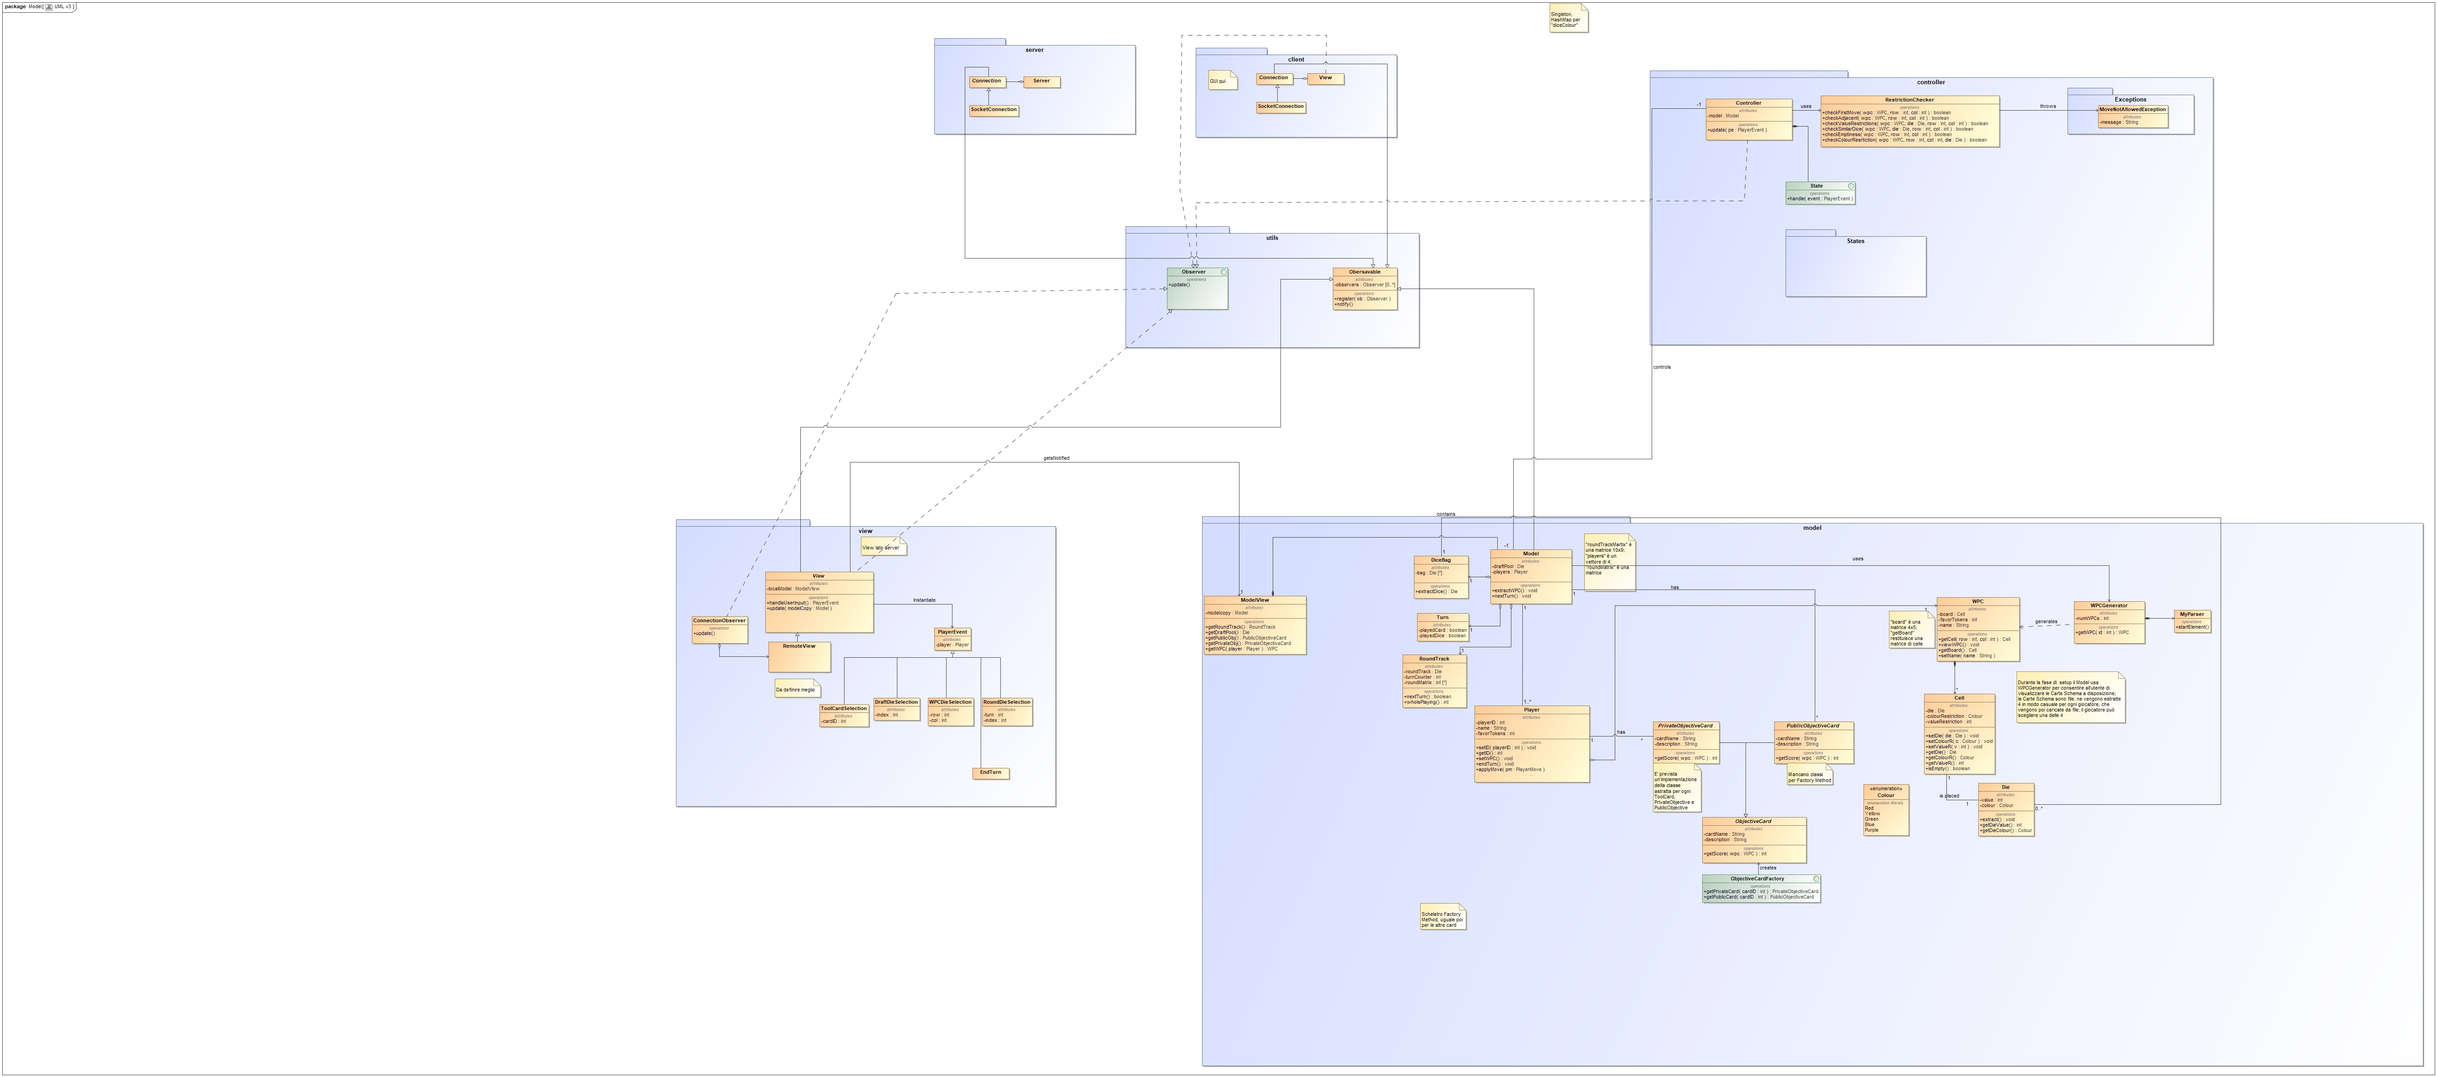
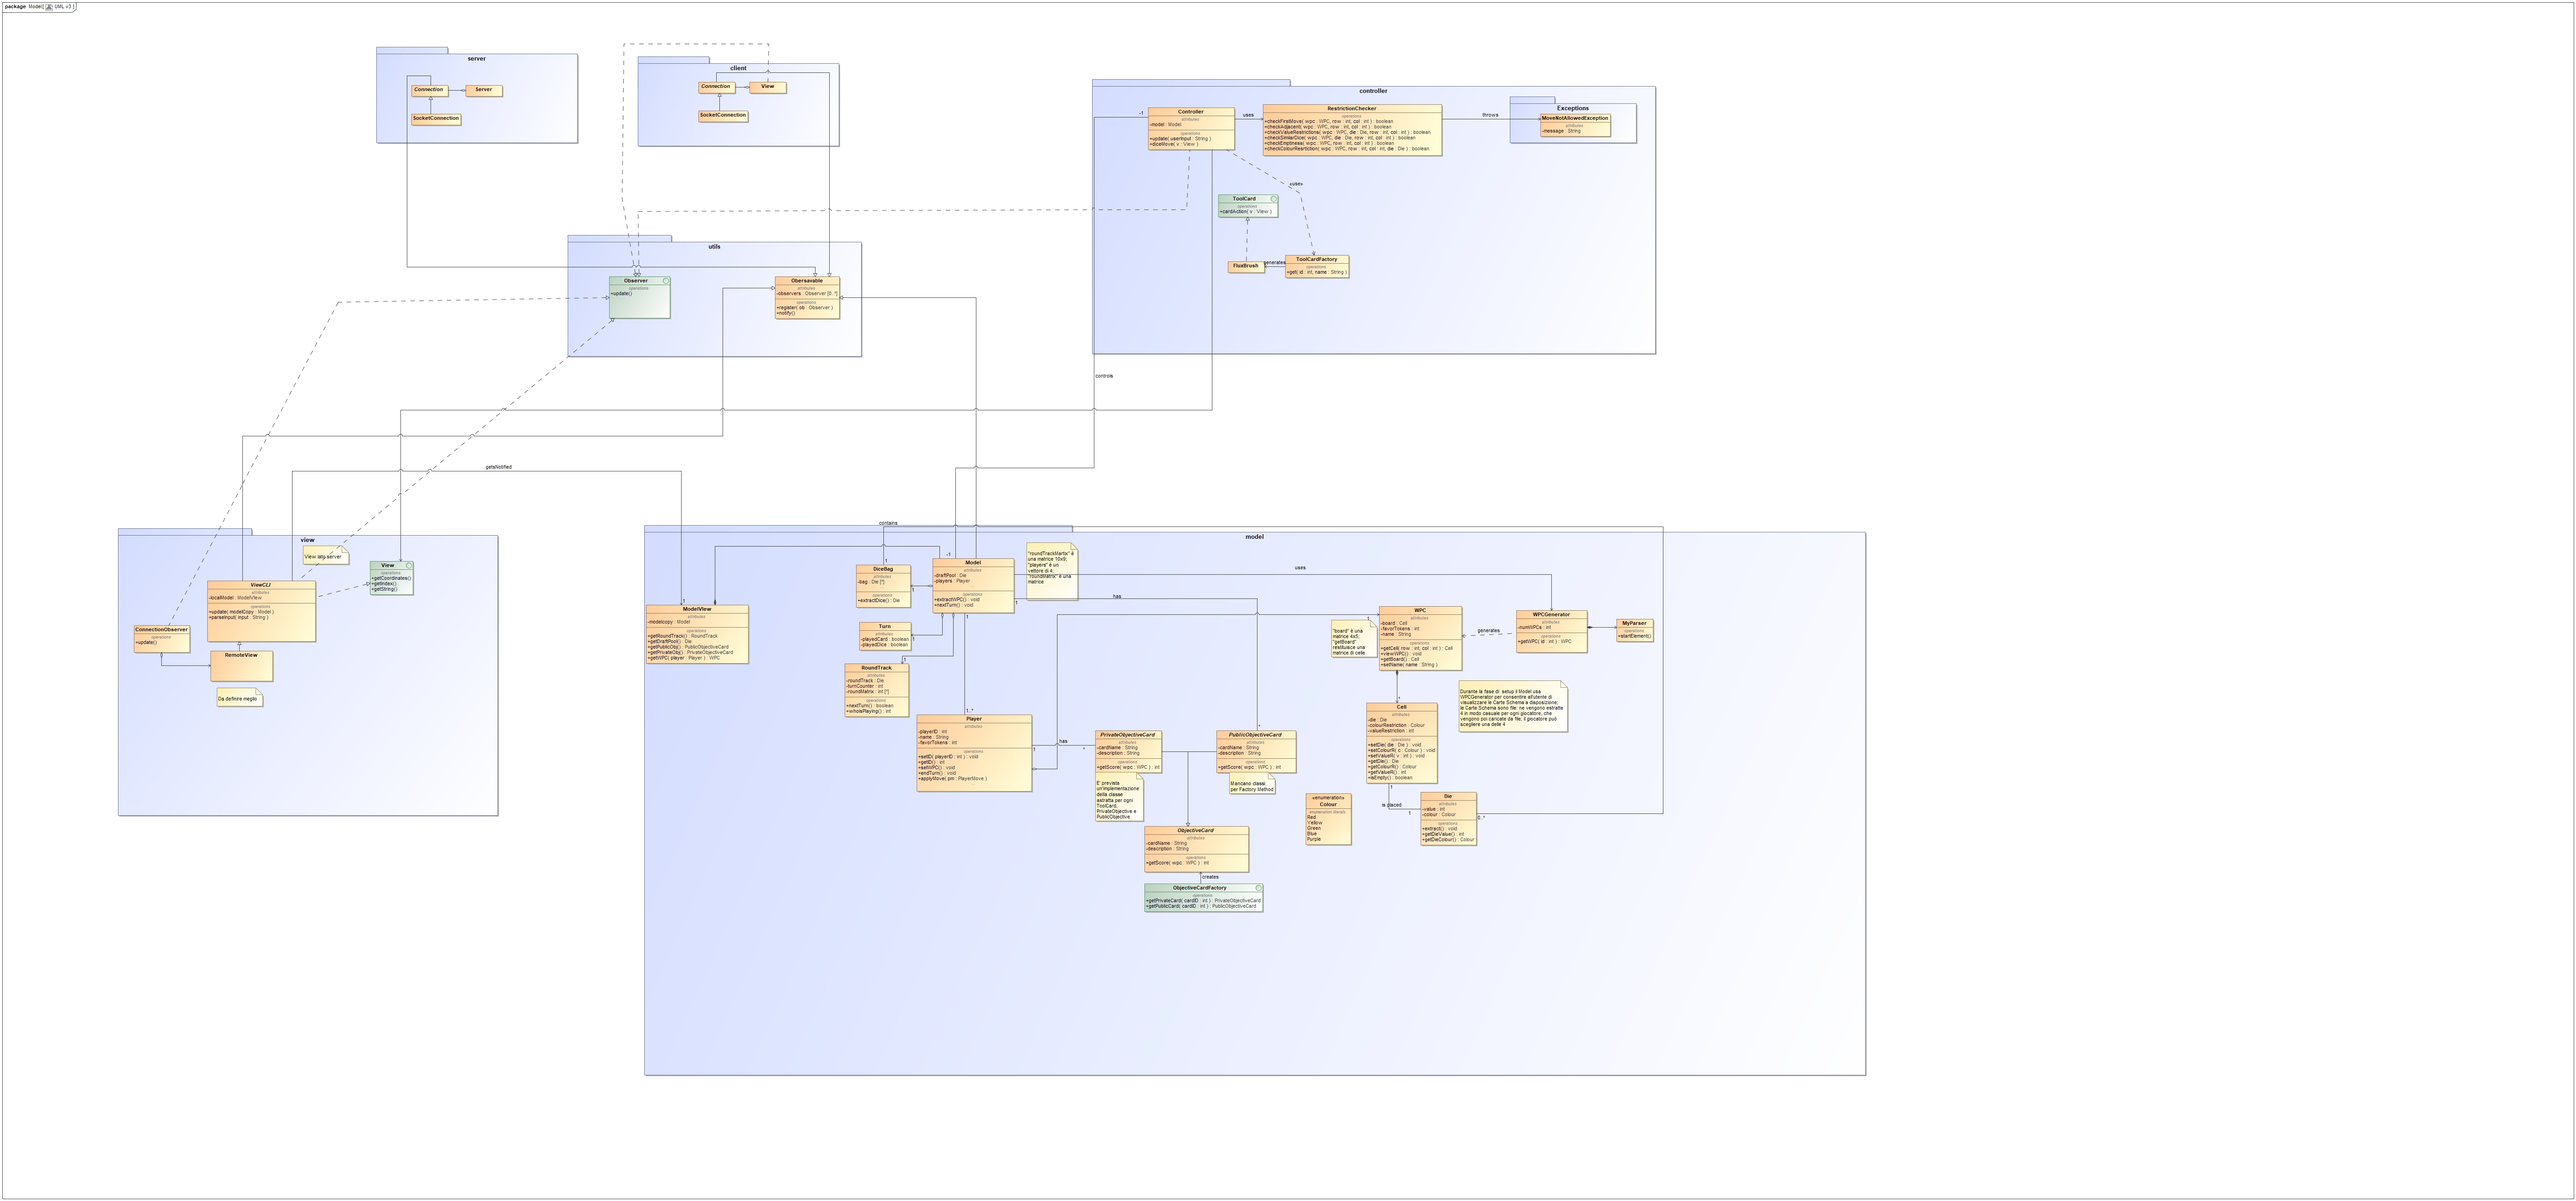
Commit 19: Modifiche toolcard e metodi calcolo restrizioni

diff --git a/src/main/java/it/polimi/se2018/Controller/RestrictionChecker.java b/src/main/java/it/polimi/se2018/Controller/RestrictionChecker.java
@@ -1,25 +1,36 @@
-package it.polimi.se2018.Model;
+package it.polimi.se2018.Controller;
 
+import it.polimi.se2018.Controller.Exceptions.MoveNotAllowedException;
+import it.polimi.se2018.Model.Die;
 import it.polimi.se2018.Model.WPC.Cell;
 import it.polimi.se2018.Model.WPC.WPC;
 
 public class RestrictionChecker {
 
-    //return true if there's at least one adjacent die
-    public boolean checkAdjacent (WPC wpc, int row, int col){
+    /**return true if there's at least one adjacent die
+     *
+     * @param wpc
+     * @param row
+     * @param col
+     * @throws MoveNotAllowedException
+     * @author Pietro Ghiglio
+     */
+    public void checkAdjacent (WPC wpc, int row, int col) throws MoveNotAllowedException{
 
-            return  !checkCell(wpc,row-1, col) ||
+            if( !( !checkCell(wpc,row-1, col) ||
                     !checkCell(wpc,row+1, col) ||
                     !checkCell(wpc, row, col-1) ||
                     !checkCell(wpc, row, col+1) ||
                     !checkCell(wpc, row-1,col-1) ||
                     !checkCell(wpc, row-1,col+1) ||
                     !checkCell(wpc, row+1,col-1) ||
-                    !checkCell(wpc, row+1,col+1) ;
+                    !checkCell(wpc, row+1,col+1) ) )
+                throw new MoveNotAllowedException("Die must be adjacent to another die.");
 
     }
 
     //method that handles cells on the border of the matrix
+    //returns false if the cell contains a die
     private boolean checkCell(WPC wpc, int row, int col){
         try {
             return wpc.getCell(row, col).isEmpty();
@@ -30,24 +41,27 @@ public class RestrictionChecker {
     }
 
     //checks that the first die is placed on the border of the window
-    public boolean checkFirstMove (WPC wpc, int row, int col){
-        return(!isEmpty(wpc) || row == 0 || row == WPC.NUMROW-1 || col == 0 || col == WPC.NUMCOL-1 );
+    public void checkFirstMove (WPC wpc, int row, int col) throws  MoveNotAllowedException{
+        if (!(!isEmpty(wpc) || row == 0 || row == WPC.NUMROW-1 || col == 0 || col == WPC.NUMCOL-1 ))
+            throw new MoveNotAllowedException("First move: die must be on the border.");
     }
 
     //checks colour restriction
-    public boolean checkColourRestrictions (WPC wpc, int row, int col, Die die){
+    public void checkColourRestrictions (WPC wpc, int row, int col, Die die) throws MoveNotAllowedException{
         Cell temp = wpc.getCell(row, col);
-        return temp.getColourR() == die.getDieColour();
+        if (temp.getColourR() != die.getDieColour())
+            throw new MoveNotAllowedException("Color restriction violated.");
     }
 
     //checks value restriction
-    public boolean checkValueRestriction (WPC wpc, int row, int col, Die die){
+    public void checkValueRestriction (WPC wpc, int row, int col, Die die) throws MoveNotAllowedException{
         Cell temp = wpc.getCell(row, col);
-        return temp.getValueR() == die.getDieValue();
+        if(! (die.getDieValue().equals(temp.getValueR())))
+            throw new MoveNotAllowedException("Value restriction violated.");
     }
 
     //returns false if there's a die with same value and colour orthogonally adjacent
-    public boolean sameDie (WPC wpc, int row, int col, Die die){
+    public void sameDie (WPC wpc, int row, int col, Die die) throws MoveNotAllowedException{
         Die[] temp = new Die[4];
         try {
             temp[0] = wpc.getCell(row - 1, col).getDie();
@@ -76,14 +90,14 @@ public class RestrictionChecker {
 
         for(int i = 0; i< 4; i++){
             if (temp[i] != null && temp[i].getDieValue().equals(die.getDieValue()) &&
-                    temp[i].getDieColour().equals(die.getDieColour())) return false;
+                    temp[i].getDieColour().equals(die.getDieColour()))
+                throw new MoveNotAllowedException("Same die orthogonally adjacent.");
             }
-            return true;
 
     }
 
     //returns true if the cell is empty (contains no die)
-    public boolean checkEmptiness (WPC wpc, int row, int col){
+    private boolean checkEmptiness (WPC wpc, int row, int col){
         return wpc.getCell(row, col).isEmpty();
     }
 

diff --git a/src/main/java/it/polimi/se2018/Controller/ToolCard/ToolCardFactory.java b/src/main/java/it/polimi/se2018/Controller/ToolCard/ToolCardFactory.java
@@ -1,0 +1,41 @@
+package it.polimi.se2018.Controller.ToolCard;
+
+import it.polimi.se2018.Controller.Exceptions.InputNotValidException;
+
+public class ToolCardFactory {
+    public ToolCard get(int id) throws InputNotValidException{
+        switch(id) {
+            case(1): return new GrozingPliers();
+            case(2): return new EglomiseBrush();
+            case(3): return new CopperFoilBurnisher();
+            case(4): return new Lathekin();
+            case(5): return new LensCutter();
+            case(6): return new FluxBrush();
+            case(7): return new GlazingHammer();
+            case(8): return new RunningPliers();
+            case(9): return new CorkBackedStraightedge();
+            case(10): return new GrindingStone();
+            case(11): return new FluxRemover();
+            case(12): return new TapWheel();
+            default: throw new InputNotValidException();
+        }
+    }
+
+    public ToolCard get(String s) throws InputNotValidException{
+        switch(s){
+            case("Grozing PLiers"): return new GrozingPliers();
+            case("Eglomise Brush"): return new EglomiseBrush();
+            case("Copper Foil Burnisher"): return new CopperFoilBurnisher();
+            case("Lthekin"): return new Lathekin();
+            case("Lens Cutter"): return new LensCutter();
+            case("Flux Brush"): return new FluxBrush();
+            case("Glazing Hammer"): return new GlazingHammer();
+            case("Running Pliers"): return new RunningPliers();
+            case("Cork Backed Straightedge"): return new CorkBackedStraightedge();
+            case("Grinding Stone"): return new GrindingStone();
+            case("Flux Remover"): return new FluxRemover();
+            case("Tap Wheel"): return new TapWheel();
+            default: throw new InputNotValidException();
+        }
+    }
+}

diff --git a/src/main/java/it/polimi/se2018/Model/WPC/WpcGenerator.java b/src/main/java/it/polimi/se2018/Model/WPC/WpcGenerator.java
@@ -6,14 +6,15 @@ import org.xml.sax.*;
 import org.xml.sax.helpers.*;
 import java.io.*;
 
-/*
- WPCGenerator generates a WPC given its numberID.
- WPCs are stored as xml files in the directory /src/main/java/it.polimi.se2018/Model/WPC/cards
- xml format is
- <wpc>
-    <restriction type = "colour" or "value" row = "0,..,3" col = "0,..,4" value = "colour or number"></restriction>
-    ... tags for name and favor token
- </wpc>
+/**
+ * @author Pietro Ghiglio
+ *WPCGenerator generates a WPC given its numberID.
+ *WPCs are stored as xml files in the directory /src/main/java/it.polimi.se2018/Model/WPC/wpcs
+ *xml format is
+ *<wpc>
+ *   <restriction type = "colour" or "value" row = "0,..,3" col = "0,..,4" value = "colour or number"></restriction>
+ *  ... tags for name and favor token
+ *</wpc>
  */
 public class WpcGenerator {
     private  WPC temp;

diff --git a/src/main/java/it/polimi/se2018/Controller/ToolCard/ToolCard.java b/src/main/java/it/polimi/se2018/Controller/ToolCard/ToolCard.java
@@ -1,13 +1,6 @@
-package it.polimi.se2018.Model.ToolCard;
+package it.polimi.se2018.Controller.ToolCard;
 
-import it.polimi.se2018.Model.WPC.WPC;
-
-public abstract class ToolCard {
-    private String cardName;
-    private int cardNumber;
-    private String description;
-    private int cardCost;
-    //public abstract void cardAction(WPC wpc);
+public interface ToolCard {
 }
 
 /*

diff --git a/src/main/java/it/polimi/se2018/Controller/Exceptions/MoveNotAllowedException.java b/src/main/java/it/polimi/se2018/Controller/Exceptions/MoveNotAllowedException.java
@@ -1,0 +1,13 @@
+package it.polimi.se2018.Controller.Exceptions;
+
+public class MoveNotAllowedException extends Exception {
+    String message;
+    public MoveNotAllowedException(String message){
+        this.message = message;
+    }
+
+    @Override
+    public String getMessage() {
+        return message;
+    }
+}

diff --git a/src/test/java/it/polimi/se2018/TestWPCGenerator.java b/src/test/java/it/polimi/se2018/TestWPCGenerator.java
@@ -7,6 +7,9 @@ import org.junit.Assert.*;
 
 import static org.junit.Assert.assertEquals;
 
+/**
+ * Test for WpcGenerator, wpc.equals() and consequently cell.equals() and die.equals()
+ */
 public class TestWPCGenerator {
     private WPC testWPC;
     private  WPC testWPC2;

diff --git a/src/main/java/it/polimi/se2018/Controller/ToolCard/CopperFoilBurnisher.java b/src/main/java/it/polimi/se2018/Controller/ToolCard/CopperFoilBurnisher.java
@@ -1,0 +1,5 @@
+package it.polimi.se2018.Controller.ToolCard;
+
+public class CopperFoilBurnisher implements ToolCard{ //Alesatore per Lamina di Rame
+
+}

diff --git a/src/main/java/it/polimi/se2018/Controller/ToolCard/CorkBackedStraightedge.java b/src/main/java/it/polimi/se2018/Controller/ToolCard/CorkBackedStraightedge.java
@@ -1,0 +1,5 @@
+package it.polimi.se2018.Controller.ToolCard;
+
+public class CorkBackedStraightedge implements ToolCard{  //Riga in Sughero
+
+}

diff --git a/src/main/java/it/polimi/se2018/Controller/ToolCard/EglomiseBrush.java b/src/main/java/it/polimi/se2018/Controller/ToolCard/EglomiseBrush.java
@@ -1,0 +1,5 @@
+package it.polimi.se2018.Controller.ToolCard;
+
+public class EglomiseBrush implements ToolCard{   //Pennello per Eglomise
+
+}

diff --git a/src/main/java/it/polimi/se2018/Controller/ToolCard/FluxBrush.java b/src/main/java/it/polimi/se2018/Controller/ToolCard/FluxBrush.java
@@ -1,0 +1,5 @@
+package it.polimi.se2018.Controller.ToolCard;
+
+public class FluxBrush implements ToolCard{   //Pennello per Pasta Salda
+
+}

diff --git a/src/main/java/it/polimi/se2018/Controller/ToolCard/FluxRemover.java b/src/main/java/it/polimi/se2018/Controller/ToolCard/FluxRemover.java
@@ -1,0 +1,5 @@
+package it.polimi.se2018.Controller.ToolCard;
+
+public class FluxRemover implements ToolCard{ //Diluente per Pasta Salda
+
+}

diff --git a/src/main/java/it/polimi/se2018/Controller/ToolCard/GrindingStone.java b/src/main/java/it/polimi/se2018/Controller/ToolCard/GrindingStone.java
@@ -1,0 +1,5 @@
+package it.polimi.se2018.Controller.ToolCard;
+
+public class GrindingStone implements ToolCard{   //Tampone Diamantato
+
+}
